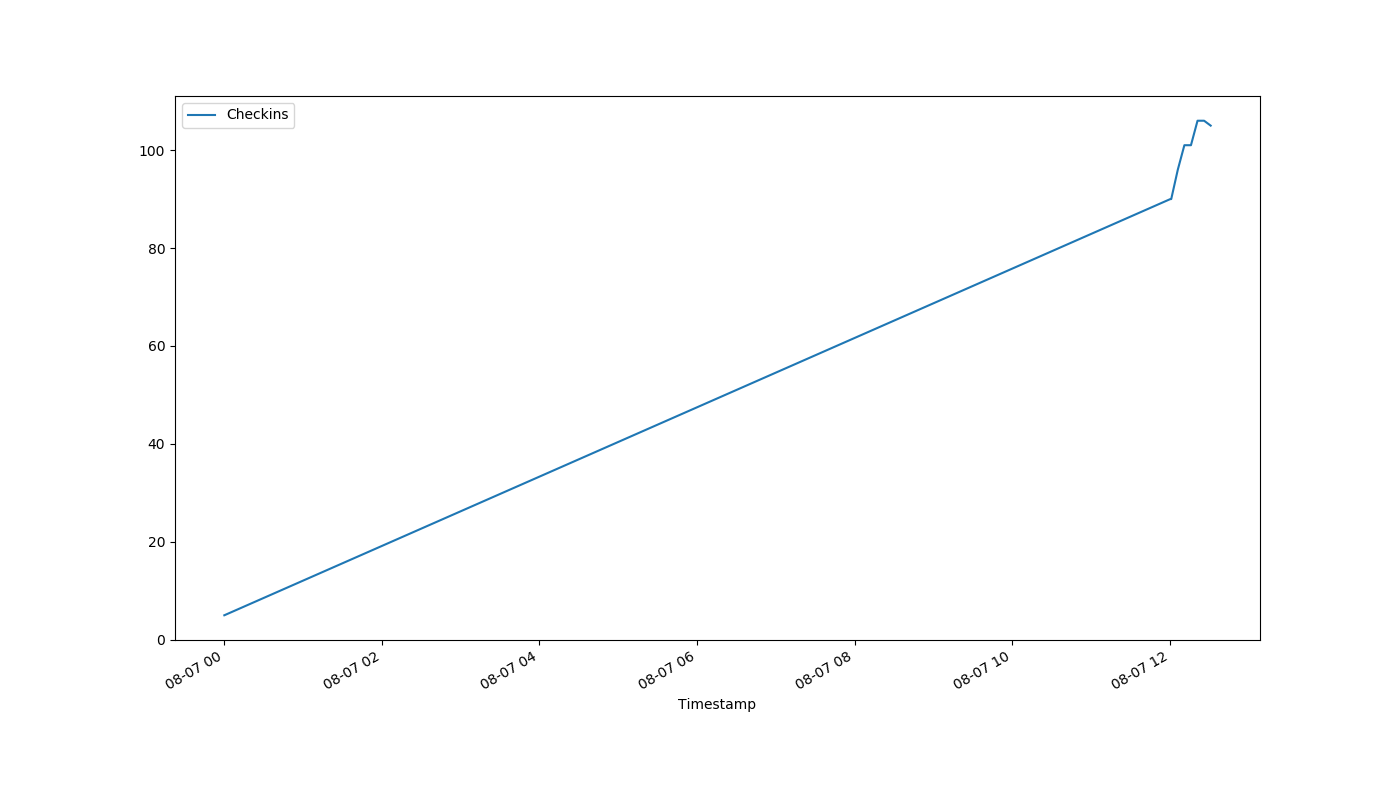
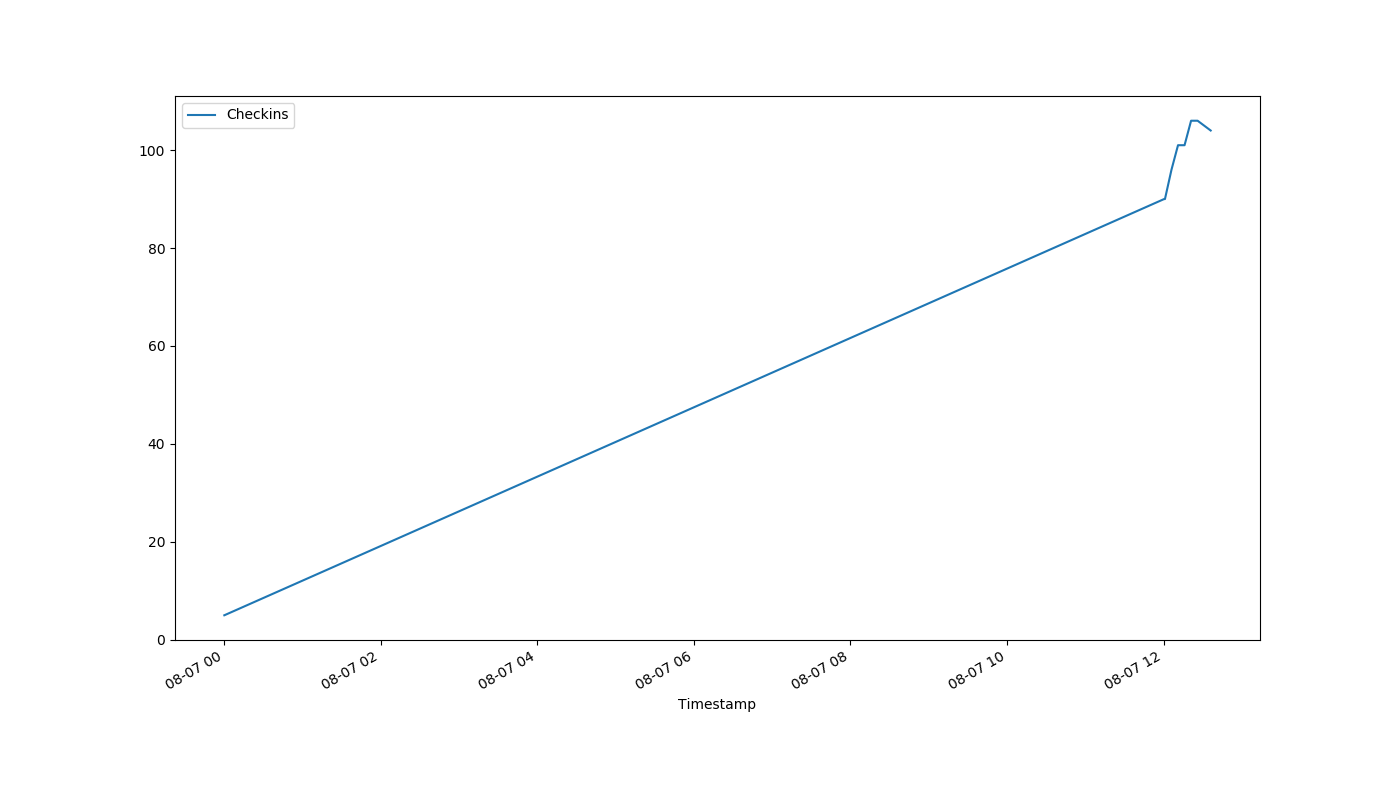
auto-Aug-07-12:37:01

diff --git a/index.html b/index.html
@@ -1,1 +1,1 @@
-<!DOCTYPE html><html><head><meta http-equiv="refresh" content="30"><link rel='stylesheet' href='holmcurrent.css'></head><body><p id='count'>105</p><div id='graph-wrap'><img id='graph' src='holmgraph-Aug-07.png'></div><p id='updated'>Last updated 12:31:10 / 12:31:03</p></body></html>
+<!DOCTYPE html><html><head><meta http-equiv="refresh" content="30"><link rel='stylesheet' href='holmcurrent.css'></head><body><p id='count'>104</p><div id='graph-wrap'><img id='graph' src='holmgraph-Aug-07.png'></div><p id='updated'>Last updated 12:36:10 / 12:36:03</p></body></html>
